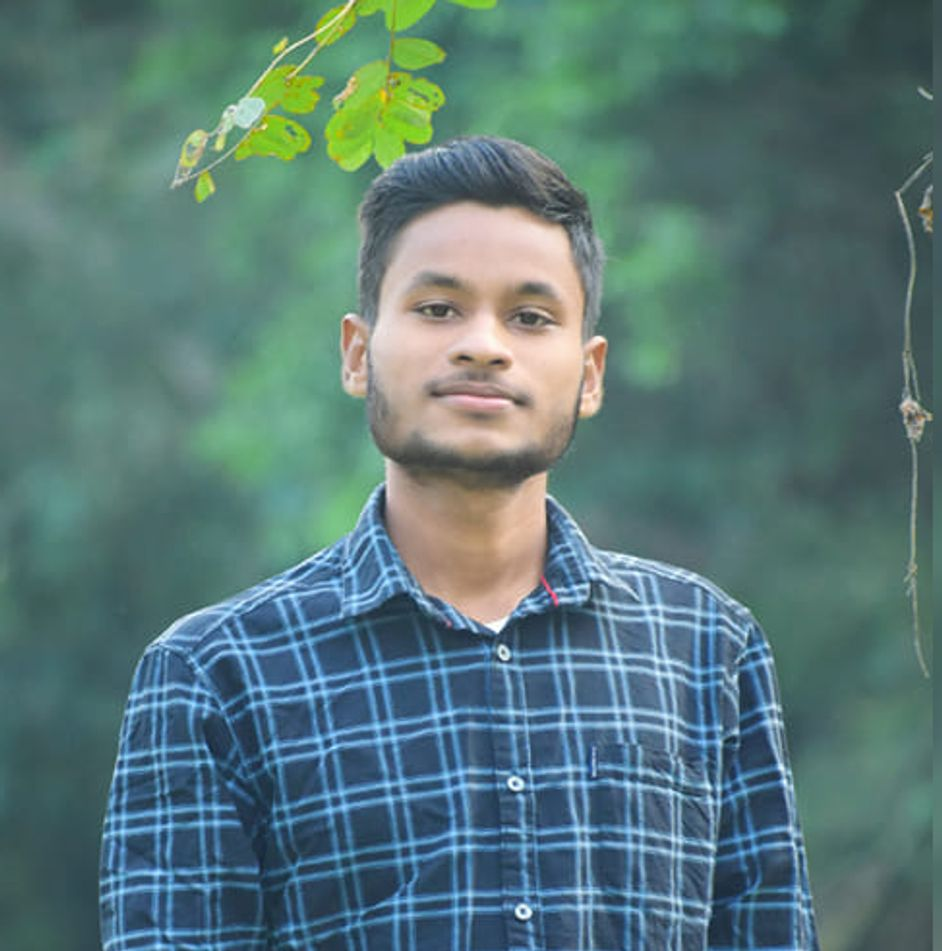
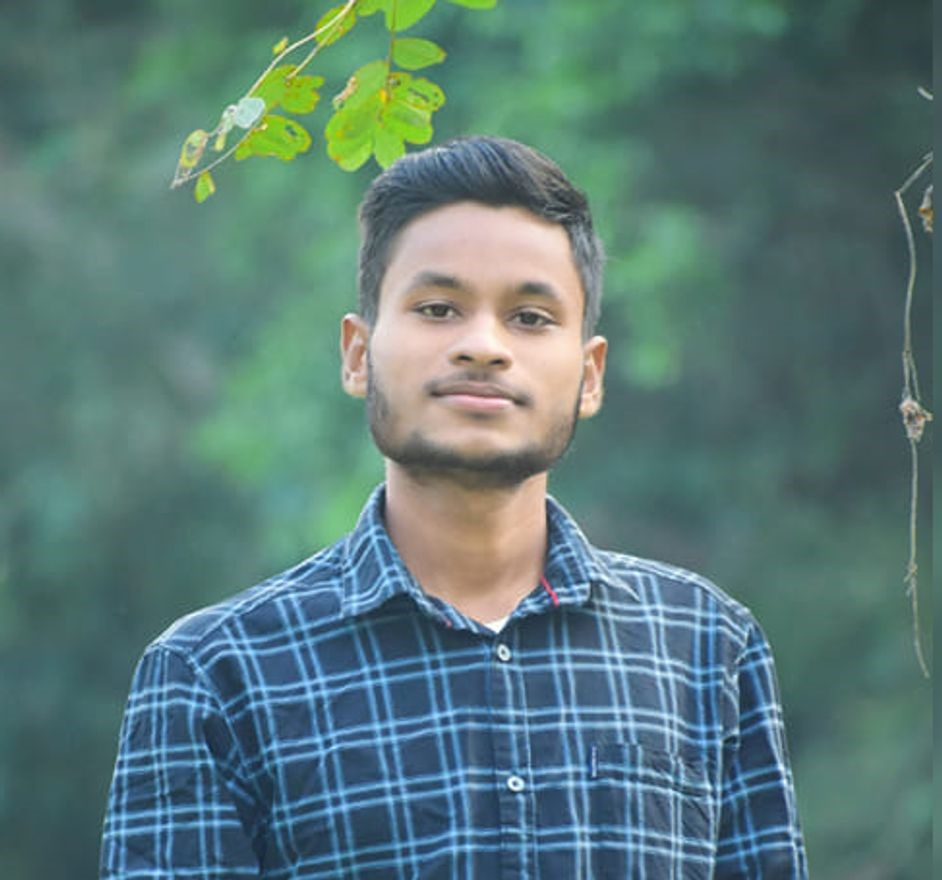
Modified the profiles of the staff

diff --git a/pages/our_staff.html b/pages/our_staff.html
@@ -126,8 +126,7 @@
                     <div class="col">
                         <div class="card shadow-sm">
                             <img class="flex-shrink-0 bd-placeholder-img bd-placeholder-img-lg featurette-image img-fluid mx-auto my-4"
-                                width="280" height="150" src="../staff/nabajyoti.png" alt="Nabajyoti Baruah">
-
+                                width="280" height="150" src="../staff/nabajyoti.jpeg" alt="Nabajyoti Baruah">
                             <div class="card-body text-center">
                                 <h4 class="card-text fs-5">Nabajyoti Kalita</h4>
                                 <p class="card-text">Address: Bamunjhar</p>
@@ -221,7 +220,7 @@
                     <div class="col">
                         <div class="card shadow-sm">
                             <img class="flex-shrink-0 bd-placeholder-img bd-placeholder-img-lg featurette-image img-fluid mx-auto my-3"
-                                width="280" height="150" src="../staff/simanta.jpg" alt="Amarjyoti Nath">
+                                width="280" height="150" src="../staff/simanta.jpg" alt="simanta deka">
 
                             <div class="card-body">
                                 <div class="card-body text-center">
